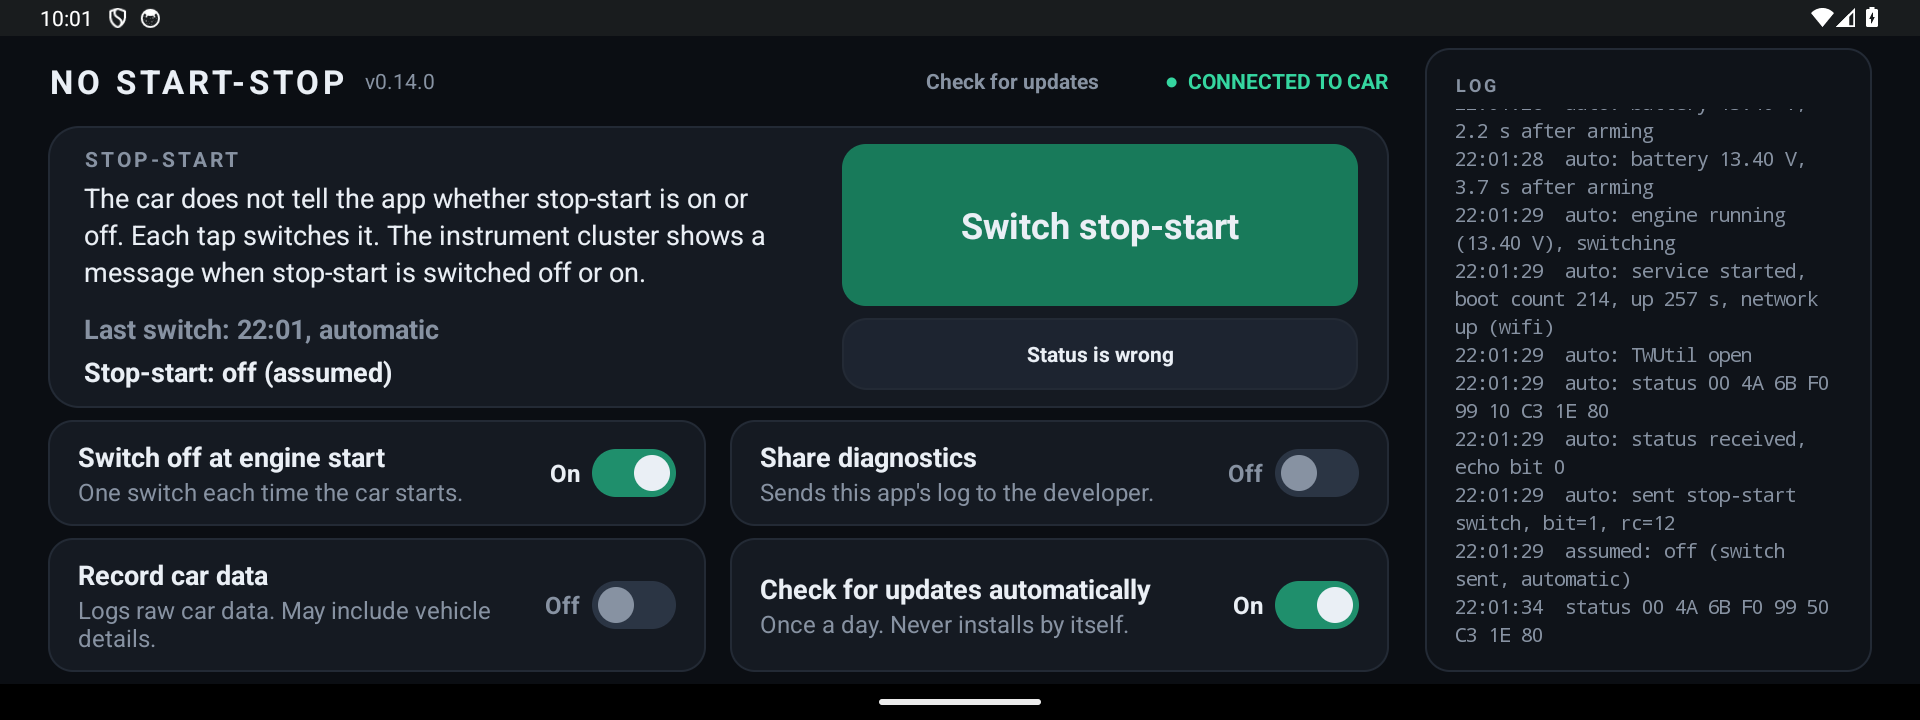
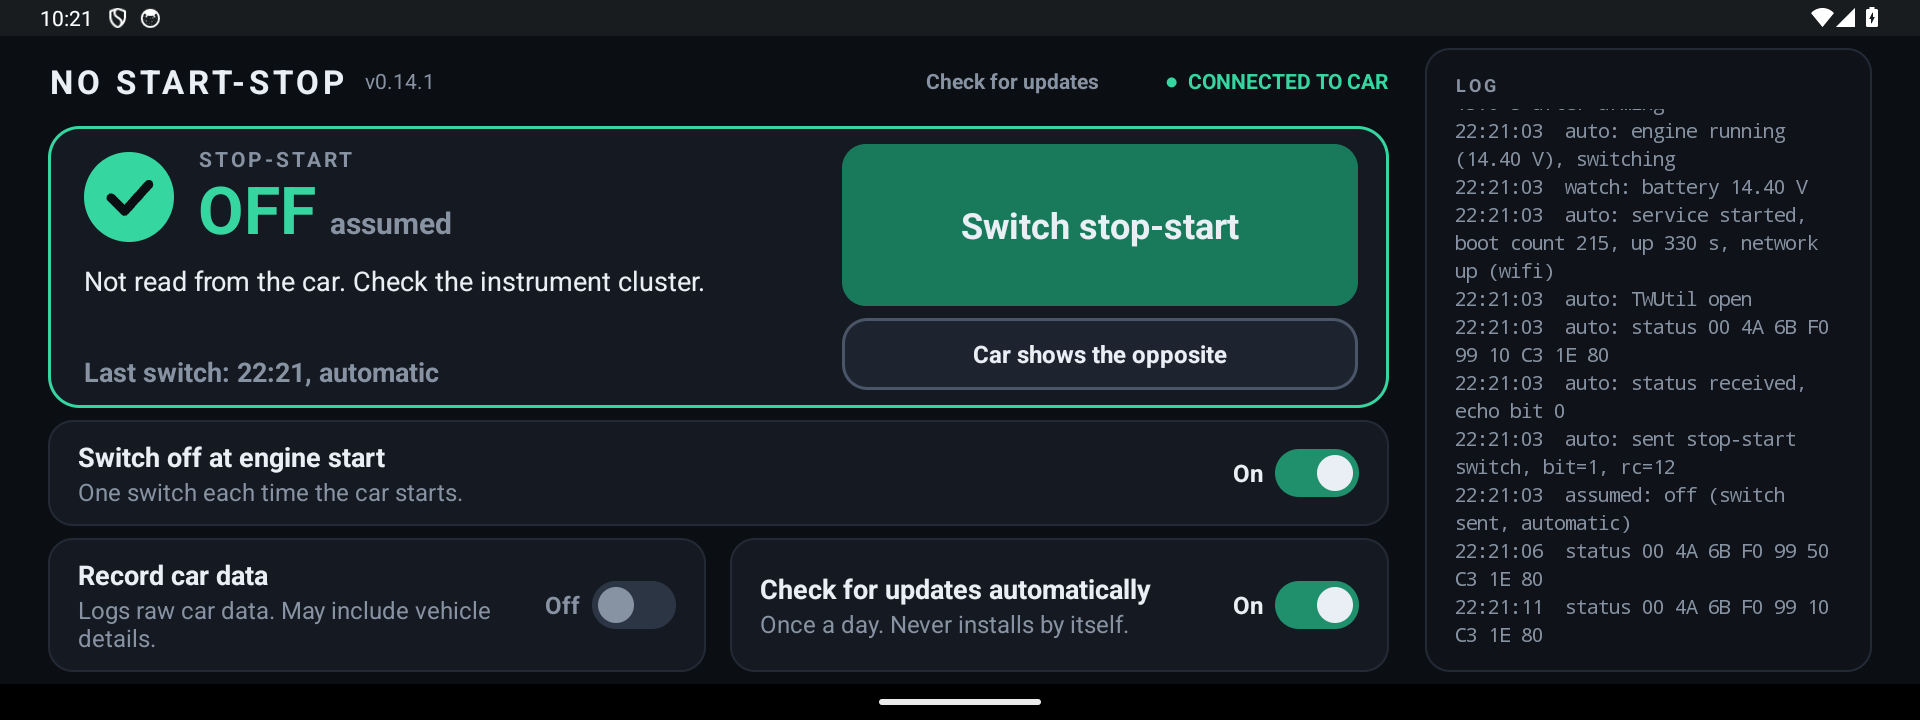
Show the assumed stop-start state as the card's headline

diff --git a/src/com/furgo/nostartstop/MainActivity.java b/src/com/furgo/nostartstop/MainActivity.java
@@ -5,6 +5,10 @@ import android.app.AlertDialog;
 import android.content.Context;
 import android.content.DialogInterface;
 import android.content.Intent;
+import android.graphics.Canvas;
+import android.graphics.DashPathEffect;
+import android.graphics.Paint;
+import android.graphics.Path;
 import android.graphics.Typeface;
 import android.graphics.drawable.GradientDrawable;
 import android.graphics.drawable.StateListDrawable;
@@ -12,6 +16,10 @@ import android.os.Build;
 import android.os.Bundle;
 import android.os.Handler;
 import android.os.SystemClock;
+import android.text.SpannableStringBuilder;
+import android.text.style.AbsoluteSizeSpan;
+import android.text.style.ForegroundColorSpan;
+import android.text.style.StyleSpan;
 import android.util.DisplayMetrics;
 import android.util.TypedValue;
 import android.view.Gravity;
@@ -83,7 +91,10 @@ public class MainActivity extends Activity implements CanBox.Listener {
     private ScrollView logScroll;
     private TextView feedback;
     private TextView switchButton;
-    private TextView assumedView;
+    private TextView assumedWord;
+    private TextView assumedHint;
+    private StateBadge badge;
+    private LinearLayout stateCard;
     private TextView wrongButton;
     private long reportedAt = -HOLD_MS;
 
@@ -164,6 +175,74 @@ public class MainActivity extends Activity implements CanBox.Listener {
             showStoredUpdate();
         }
     };
+
+    /** The assumed state as a shape, so on, off and unknown differ without colour: tick, warning triangle, dashed ring. */
+    private final class StateBadge extends View {
+        private final Paint paint = new Paint(Paint.ANTI_ALIAS_FLAG);
+        private final Path path = new Path();
+        private int state = AssumedState.UNKNOWN;
+
+        StateBadge(Context c) {
+            super(c);
+        }
+
+        void setState(int s) {
+            state = s;
+            invalidate();
+        }
+
+        @Override
+        protected void onDraw(Canvas c) {
+            float w = getWidth(), h = getHeight(), u = Math.min(w, h), cx = w / 2, cy = h / 2;
+            paint.setStrokeCap(Paint.Cap.ROUND);
+            paint.setStrokeJoin(Paint.Join.ROUND);
+            paint.setPathEffect(null);
+            if (state == AssumedState.OFF) {
+                paint.setStyle(Paint.Style.FILL);
+                paint.setColor(ACCENT);
+                c.drawCircle(cx, cy, u / 2, paint);
+                paint.setStyle(Paint.Style.STROKE);
+                paint.setStrokeWidth(u * 0.1f);
+                paint.setColor(BG);
+                path.reset();
+                path.moveTo(cx - u * 0.2f, cy + u * 0.01f);
+                path.lineTo(cx - u * 0.05f, cy + u * 0.16f);
+                path.lineTo(cx + u * 0.22f, cy - u * 0.14f);
+                c.drawPath(path, paint);
+            } else if (state == AssumedState.ON) {
+                float r = u * 0.08f;
+                paint.setStyle(Paint.Style.FILL_AND_STROKE);
+                paint.setStrokeWidth(r * 2);
+                paint.setColor(WARN);
+                path.reset();
+                path.moveTo(cx, r + u * 0.06f);
+                path.lineTo(w - r - u * 0.04f, h - r - u * 0.08f);
+                path.lineTo(r + u * 0.04f, h - r - u * 0.08f);
+                path.close();
+                c.drawPath(path, paint);
+                paint.setStyle(Paint.Style.STROKE);
+                paint.setStrokeWidth(u * 0.09f);
+                paint.setColor(BG);
+                c.drawLine(cx, cy - u * 0.12f, cx, cy + u * 0.1f, paint);
+                paint.setStyle(Paint.Style.FILL);
+                c.drawCircle(cx, cy + u * 0.24f, u * 0.06f, paint);
+            } else {
+                float sw = u * 0.07f;
+                paint.setStyle(Paint.Style.STROKE);
+                paint.setStrokeWidth(sw);
+                paint.setColor(MUTED);
+                paint.setStrokeCap(Paint.Cap.BUTT);
+                paint.setPathEffect(new DashPathEffect(new float[]{u * 0.14f, u * 0.1f}, 0));
+                c.drawCircle(cx, cy, u / 2 - sw, paint);
+                paint.setPathEffect(null);
+                paint.setStyle(Paint.Style.FILL);
+                paint.setTextAlign(Paint.Align.CENTER);
+                paint.setTypeface(Typeface.DEFAULT_BOLD);
+                paint.setTextSize(u * 0.5f);
+                c.drawText("?", cx, cy + u * 0.18f, paint);
+            }
+        }
+    }
 
     private static final class Toggle {
         FrameLayout track;
@@ -598,14 +677,29 @@ public class MainActivity extends Activity implements CanBox.Listener {
                 : pressable(NEUTRAL, NEUTRAL_PRESSED, 2));
 
         int assumed = Prefs.assumedState(this);
-        assumedView.setText(assumed == AssumedState.UNKNOWN ? "Stop-start: unknown"
-                : "Stop-start: " + AssumedState.name(assumed) + " (assumed)");
-        assumedView.setTextColor(assumed == AssumedState.UNKNOWN ? MUTED : TEXT);
+        int stateColor = assumed == AssumedState.OFF ? ACCENT : assumed == AssumedState.ON ? WARN : MUTED;
+        badge.setState(assumed);
+        stateCard.setBackgroundDrawable(shape(CARD, 20, 2, assumed == AssumedState.UNKNOWN ? CARD_EDGE : stateColor));
+        String word = assumed == AssumedState.UNKNOWN ? "UNKNOWN" : AssumedState.name(assumed).toUpperCase(Locale.ROOT);
+        SpannableStringBuilder sb = new SpannableStringBuilder(word);
+        if (assumed != AssumedState.UNKNOWN) {
+            int from = sb.length();
+            sb.append("  assumed");
+            sb.setSpan(new AbsoluteSizeSpan(20, true), from, sb.length(), 0);
+            sb.setSpan(new ForegroundColorSpan(MUTED), from, sb.length(), 0);
+            sb.setSpan(new StyleSpan(Typeface.NORMAL), from, sb.length(), 0);
+        }
+        assumedWord.setText(sb);
+        assumedWord.setTextColor(stateColor);
+        assumedHint.setText(assumed == AssumedState.OFF ? "Not read from the car. Check the instrument cluster."
+                : assumed == AssumedState.ON ? "Not read from the car. Tap Switch to turn it off."
+                : "The app has not seen this drive start. Check the instrument cluster.");
         boolean canReport = assumed != AssumedState.UNKNOWN && !pending && !bootBusy
                 && SystemClock.elapsedRealtime() >= reportedAt + HOLD_MS;
         wrongButton.setEnabled(canReport);
-        wrongButton.setTextColor(canReport ? TEXT : MUTED);
-        wrongButton.setBackgroundDrawable(canReport ? pressable(NEUTRAL, NEUTRAL_PRESSED, 1) : pressable(0, 0, 1));
+        wrongButton.setTextColor(canReport ? TEXT : 0xFF5C6676);
+        wrongButton.setBackgroundDrawable(canReport ? outlined()
+                : dashed());
         renderBoot();
     }
 
@@ -759,36 +853,42 @@ public class MainActivity extends Activity implements CanBox.Listener {
 
     private View switchCard() {
         LinearLayout box = new LinearLayout(this);
+        stateCard = box;
         box.setOrientation(LinearLayout.HORIZONTAL);
         box.setPadding(dp(24), dp(12), dp(20), dp(12));
-        box.setBackgroundDrawable(shape(CARD, 20, 1, CARD_EDGE));
 
         LinearLayout words = new LinearLayout(this);
         words.setOrientation(LinearLayout.VERTICAL);
         box.addView(words, new LinearLayout.LayoutParams(0, -1, 1.4f));
 
+        LinearLayout head = new LinearLayout(this);
+        head.setGravity(Gravity.CENTER_VERTICAL);
+        badge = new StateBadge(this);
+        head.addView(badge, new LinearLayout.LayoutParams(dp(60), dp(60)));
+        LinearLayout stack = new LinearLayout(this);
+        stack.setOrientation(LinearLayout.VERTICAL);
         TextView t = text("STOP-START", 14, MUTED, true);
         t.setLetterSpacing(0.14f);
-        words.addView(t);
+        stack.addView(t);
+        assumedWord = text("", 44, TEXT, true);
+        assumedWord.setIncludeFontPadding(false);
+        stack.addView(assumedWord);
+        LinearLayout.LayoutParams stackLp = new LinearLayout.LayoutParams(0, -2, 1f);
+        stackLp.leftMargin = dp(16);
+        head.addView(stack, stackLp);
+        words.addView(head, new LinearLayout.LayoutParams(-1, -2));
 
-        TextView about = text("The car does not tell the app whether stop-start is on or off. "
-                + "Each tap switches it. "
-                + "The instrument cluster shows a message when stop-start is switched off or on.", 18, TEXT, false);
-        about.setLineSpacing(0, 1.15f);
-        LinearLayout.LayoutParams aboutLp = new LinearLayout.LayoutParams(-1, -2);
-        aboutLp.topMargin = dp(4);
-        words.addView(about, aboutLp);
+        assumedHint = text("", 18, TEXT, false);
+        assumedHint.setLineSpacing(0, 1.1f);
+        LinearLayout.LayoutParams hintLp = new LinearLayout.LayoutParams(-1, -2);
+        hintLp.topMargin = dp(8);
+        words.addView(assumedHint, hintLp);
 
         feedback = text("", 18, MUTED, true);
         feedback.setGravity(Gravity.BOTTOM);
         LinearLayout.LayoutParams feedbackLp = new LinearLayout.LayoutParams(-1, 0, 1f);
         feedbackLp.topMargin = dp(4);
         words.addView(feedback, feedbackLp);
-
-        assumedView = text("", 18, TEXT, true);
-        LinearLayout.LayoutParams assumedLp = new LinearLayout.LayoutParams(-1, -2);
-        assumedLp.topMargin = dp(4);
-        words.addView(assumedView, assumedLp);
 
         LinearLayout actions = new LinearLayout(this);
         actions.setOrientation(LinearLayout.VERTICAL);
@@ -803,7 +903,7 @@ public class MainActivity extends Activity implements CanBox.Listener {
             }
         });
         actions.addView(switchButton, new LinearLayout.LayoutParams(-1, 0, 1f));
-        wrongButton = text("Status is wrong", 14, MUTED, true);
+        wrongButton = text("Car shows the opposite", 16, MUTED, true);
         wrongButton.setGravity(Gravity.CENTER);
         wrongButton.setOnClickListener(new View.OnClickListener() {
             @Override
@@ -841,6 +941,21 @@ public class MainActivity extends Activity implements CanBox.Listener {
         StateListDrawable s = new StateListDrawable();
         s.addState(new int[]{android.R.attr.state_pressed}, shape(pressed, 16, strokeDp, CARD_EDGE));
         s.addState(new int[]{}, shape(normal, 16, strokeDp, CARD_EDGE));
+        return s;
+    }
+
+    private StateListDrawable outlined() {
+        StateListDrawable s = new StateListDrawable();
+        s.addState(new int[]{android.R.attr.state_pressed}, shape(NEUTRAL_PRESSED, 16, 2, 0xFF5B6678));
+        s.addState(new int[]{}, shape(NEUTRAL, 16, 2, 0xFF4A5568));
+        return s;
+    }
+
+    private StateListDrawable dashed() {
+        GradientDrawable d = shape(0, 16, 0, 0);
+        d.setStroke(dp(2), 0xFF39414F, dp(6), dp(5));
+        StateListDrawable s = new StateListDrawable();
+        s.addState(new int[]{}, d);
         return s;
     }
 

diff --git a/README.md b/README.md
@@ -33,8 +33,8 @@ The screenshots are from an emulator at 1920x720 with a simulated CAN box: the m
 ## What it does
 
 - **Switch stop-start**: one button that sends one switch command to the car. The command is a toggle: each tap turns stop-start off if it was on, and on if it was off.
-- **Assumed state**: the car does not report whether stop-start is on or off, so the card shows the state the app assumes, for example "Stop-start: off (assumed)", or "Stop-start: unknown". The instrument cluster shows a message when stop-start is switched off or on; look there to be sure. See [the assumed state](#the-assumed-stop-start-state).
-- **Status is wrong**: tap it when the instrument cluster disagrees with the assumed state. It writes one line to the log with what led to the assumed state and flips the shown state. It sends nothing to the car. It is greyed out while the state is unknown, while a tap's command is being sent, while **Switch off at engine start** is sending ("Switching…"), and for 2 seconds after each report. The card then says "Noted in the log. Nothing sent to the car.", or, past the daily limit of report lines, "Changed, but not logged: too many reports today. Nothing sent to the car."
+- **Assumed state**: the car does not report whether stop-start is on or off, so the card shows the state the app assumes, as a large **OFF** (green, with a tick), **ON** (amber, with a warning triangle) or **UNKNOWN** (grey, with a dashed ring). OFF and ON carry the word "assumed"; the card says it is not read from the car. The instrument cluster shows a message when stop-start is switched off or on; look there to be sure. See [the assumed state](#the-assumed-stop-start-state).
+- **Car shows the opposite**: tap it when the instrument cluster disagrees with the assumed state. It writes one line to the log with what led to the assumed state and flips the shown state. It sends nothing to the car. It is greyed out while the state is unknown, while a tap's command is being sent, while **Switch off at engine start** is sending ("Switching…"), and for 2 seconds after each report. The card then says "Noted in the log. Nothing sent to the car.", or, past the daily limit of report lines, "Changed, but not logged: too many reports today. Nothing sent to the car."
 - **Feedback**: a tap first asks the CAN box for a fresh status frame and picks the command from it, then sends. The button shows "Sending…" meanwhile. The card then says:
   - "Sent at HH:mm. Check the instrument cluster." once the CAN box echoes the command. When the command's bit is 0 the echo cannot confirm it, so this shows as soon as it is sent.
   - "No answer from the car." when the command was sent but not echoed within 3 seconds. Check the instrument cluster before tapping again: the switch may have worked.
@@ -102,7 +102,7 @@ After that the app waits until a battery reading of 13.0 V or more arrives, at l
 
 ## The assumed stop-start state
 
-The car turns stop-start on at every engine start, and each switch command flips it. So the app assumes stop-start is on when a cycle starts (an ignition on or an engine start it noticed), and flips the assumed state for each switch it actually sent in that cycle, by a tap or automatically, and for each **Status is wrong** tap. A switch sent during an engine crank counts for that engine start. The assumed state survives the app being stopped in the middle of a drive. It is only shown and logged; it does not decide whether anything is sent.
+The car turns stop-start on at every engine start, and each switch command flips it. So the app assumes stop-start is on when a cycle starts (an ignition on or an engine start it noticed), and flips the assumed state for each switch it actually sent in that cycle, by a tap or automatically, and for each **Car shows the opposite** tap. A switch sent during an engine crank counts for that engine start. The assumed state survives the app being stopped in the middle of a drive. It is only shown and logged; it does not decide whether anything is sent.
 
 It needs **Switch off at engine start** on: only then does the app follow the ignition. It is unknown:
 
@@ -111,7 +111,7 @@ It needs **Switch off at engine start** on: only then does the app follow the ig
 - while **Switch off at engine start** is off, and after it is turned off until the next cycle;
 - when the background service could not start, gets no power messages from the head unit, or its link to the head unit goes silent, until the next cycle.
 
-It is not verified on the van yet. It is a model, not a reading from the car. It is wrong after a switch the car ignored (for example one sent with the engine off), after an engine start the app missed, or after a stop-start change made from the car's own menu. That is what **Status is wrong** is for: the log line it writes shows what led to the mistake.
+It is not verified on the van yet. It is a model, not a reading from the car. It is wrong after a switch the car ignored (for example one sent with the engine off), after an engine start the app missed, or after a stop-start change made from the car's own menu. That is what **Car shows the opposite** is for: the log line it writes shows what led to the mistake.
 
 ## Troubleshooting
 
@@ -122,14 +122,14 @@ It is not verified on the van yet. It is a model, not a reading from the car. It
 - **The instrument cluster showed no message after a tap**: the command may not have changed bit 0 for the car, or the car ignored it. Wait 10 seconds, then tap once more and watch the cluster. If it still shows nothing, share the log: the `sent stop-start switch` and `status` lines around the tap show what happened.
 - **Stop-start ends up on after a tap**: each tap flips it, so it was off before. Tap once more and check the instrument cluster message.
 - **Switch off at engine start does nothing**: open the app once after installing, and leave it on screen when you switch the ignition off. Then check the log for `wake` and `auto:` lines after an engine start; without a `wake` line the app did not notice the ignition on or the engine start. `auto: battery …` lines show the voltages it saw while waiting.
-- **Stop-start is on after an engine start with Switch off at engine start on**: the app probably was not running at that engine start, or the car ignored the switch. If the screen says "off (assumed)", tap **Status is wrong** first so the log records it. Then tap **Switch stop-start** once and share the log.
-- **"Stop-start: unknown"**: the app has not seen the ignition come on or an engine start since the last ignition off or head unit reboot, the automatic switch is off, or the background service lost the head unit. See [the assumed state](#the-assumed-stop-start-state).
+- **Stop-start is on after an engine start with Switch off at engine start on**: the app probably was not running at that engine start, or the car ignored the switch. If the card says **OFF** (assumed), tap **Car shows the opposite** first so the log records it. Then tap **Switch stop-start** once and share the log.
+- **"UNKNOWN"** on the stop-start card: the app has not seen the ignition come on or an engine start since the last ignition off or head unit reboot, the automatic switch is off, or the background service lost the head unit. See [the assumed state](#the-assumed-stop-start-state).
 
 ## Status
 
 - Tested on a real Jumpy head unit (Android 10). The switch command works: every command that changes bit 0 flips stop-start, and the instrument cluster shows a message each time.
 - **Switch off at engine start** works on the van: it switched stop-start off at each of 3 engine starts tested. Not verified: whether the head unit restarts the app's background service when another app was on screen at ignition off.
-- The assumed stop-start state and **Status is wrong** are not verified on the van yet.
+- The assumed stop-start state and **Car shows the opposite** are not verified on the van yet.
 - The car's real stop-start state is not readable through the settings frame. The app logs the function frame (`function …` lines), a candidate for it, and with **Record car data** on the other CAN box frames (`frame …` lines) so it can be looked for.
 - "Permanently closed" does nothing on this van.
 
@@ -176,7 +176,7 @@ Each line has a date and time. Lines to look for:
 - `unit id …` / `unit config …`: the head unit's identity text and configuration block, once each time the app starts, only while **Record car data** is on.
 - `sent stop-start switch, bit=…, rc=…`: a switch command sent to the CAN box. With **Record car data** on and the engine speed known, it ends with `, rpm=…`.
 - `assumed: on (ignition on)`, `assumed: on (engine start)`, `assumed: on (engine start, same cycle)`, `assumed: off (switch sent, automatic)`, `assumed: on (switch sent, tap)`, `assumed: on (reported wrong)`, `assumed: unknown (ignition off)`, `assumed: unknown (automatic switch off)`, `assumed: unknown (no power messages)`, `assumed: unknown (link silent)`, `assumed: unknown (watch service not started)`: each event that sets the assumed state and why, with the state after it. An event that leaves the state as it was, such as an engine start right after an ignition on, still gets its line (at most 60 lines per 24 hours).
-- `report: car shows ON, app assumed OFF, wake 5 (ignition on), 1 switch sent, 0 reports, cycle 312 s old, last switch 300 s ago (automatic), battery 14.85 V, power state 6`: a **Status is wrong** tap, written before the shown state flips. `cycle N s old` counts from the ignition on; after an engine start it reads `engine start N s ago` instead. A battery or power state value older than 10 seconds gets its age, for example `battery 14.85 V 312 s ago`. Fields the app does not know are left out (at most 50 lines per 24 hours).
+- `report: car shows ON, app assumed OFF, wake 5 (ignition on), 1 switch sent, 0 reports, cycle 312 s old, last switch 300 s ago (automatic), battery 14.85 V, power state 6`: a **Car shows the opposite** tap, written before the shown state flips. `cycle N s old` counts from the ignition on; after an engine start it reads `engine start N s ago` instead. A battery or power state value older than 10 seconds gets its age, for example `battery 14.85 V 312 s ago`. Fields the app does not know are left out (at most 50 lines per 24 hours).
 - `auto: …`: what the automatic switch did, including why it sent or did not send and whether the CAN box echoed the command. `watch: …` lines come from the background service that waits for the engine.
 - `process started, pid …`, `wake <n> (<source>)`, `power state <n>` and `broadcast <action> (manifest|runtime), up … s`: what the app sees across ignition cycles, to learn how the head unit sleeps and wakes. `watch: service started (…)` says how the service was started (by the app, at boot, after update, by a broadcast or restarted by the system). Capped at 30 `wake`, 60 `power state`, 30 `broadcast` and 60 `auto: battery` lines per 24 hours; the other `auto:` and `watch:` lines are capped too.
 - `screen off, up … s` / `screen on, up … s`, `network up (…)` / `network down`: while the app is open, at most 50 network lines each time the app starts.
